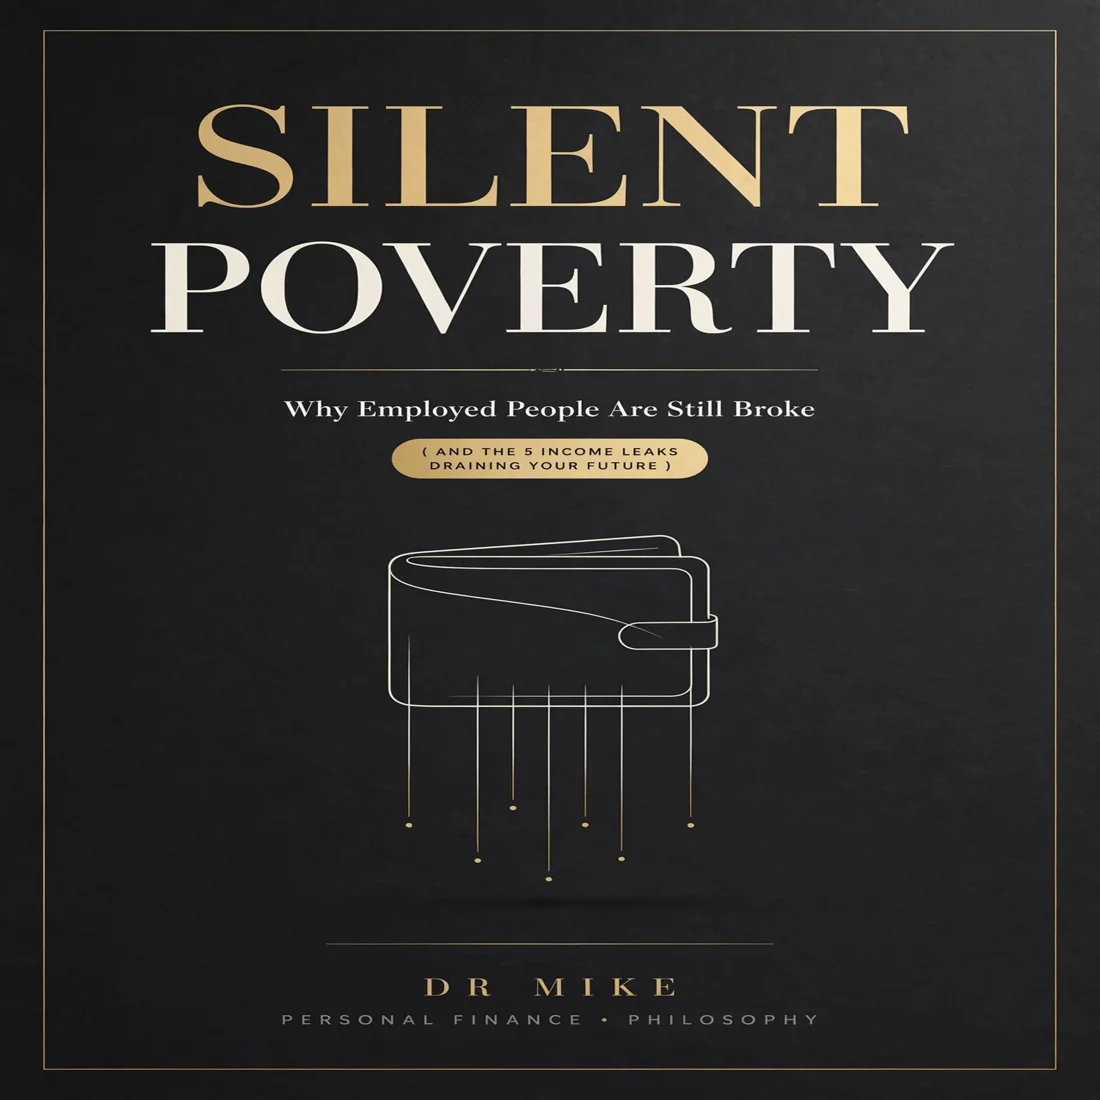
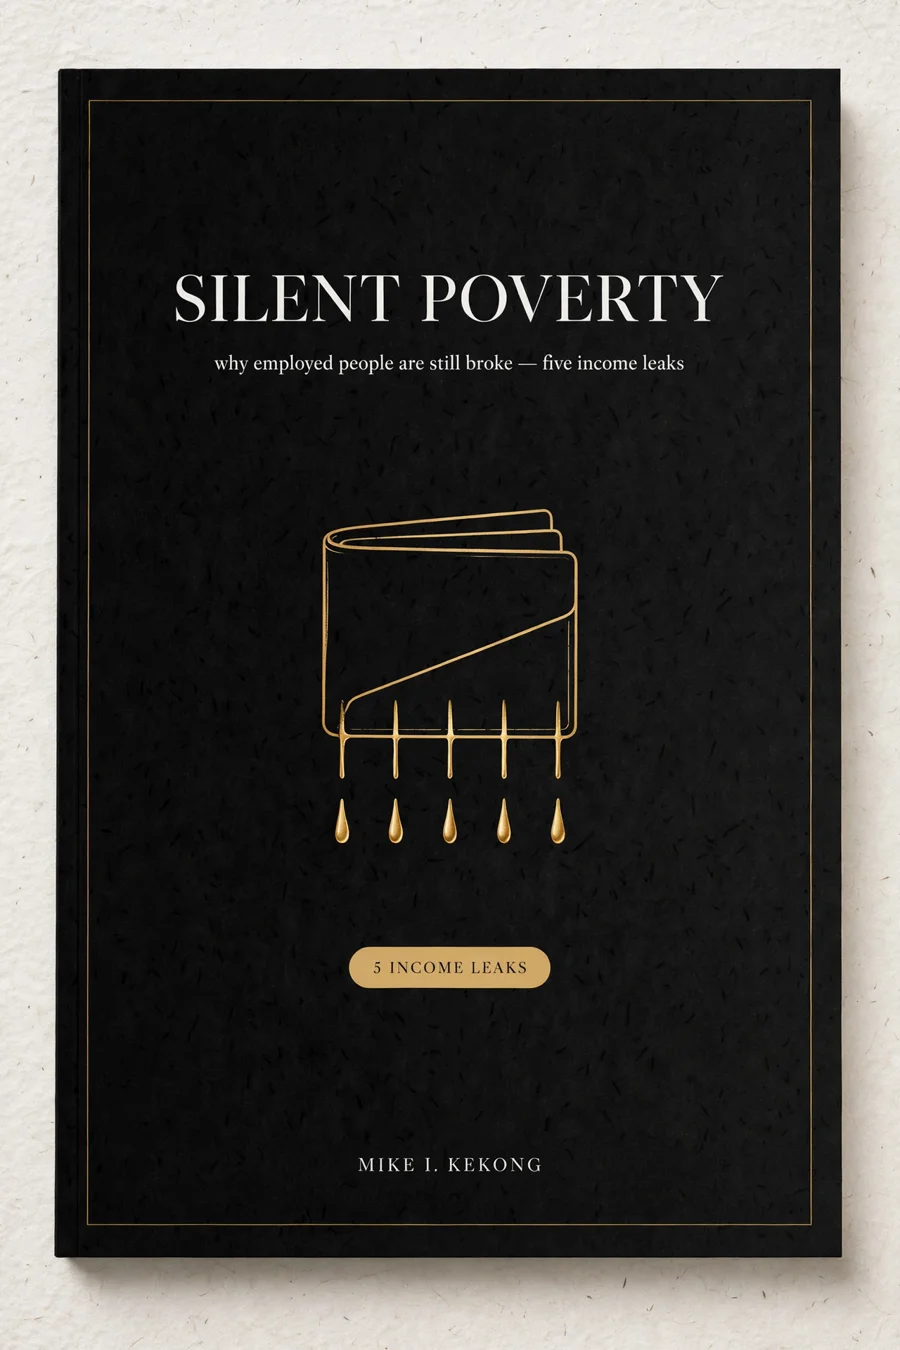
feat(covers, site): premium portrait redesign + aspect fix
- redo all 9 covers in premium web scale: 60% negative space, Instrument Serif + Inter, 1 hue + neutrals, hairline border at 8% inset 10mm, subtle grain and radial orb, muted Linear/Stripe palette
- fix author to MIKE I. KEKONG on all covers per request (was DR MIKE)
- fix aspect ratio: covers now portrait 900x1350 (2:3), site from aspect-square to aspect-[2/3] in Plate and book page to remove stretch
- rethink 3 angles per cover before IR draft, portrait 1024x1536 render, muse-image generate, ffmpeg crop to 900/600 webp

diff --git a/src/lib/Plate.svelte b/src/lib/Plate.svelte
@@ -10,14 +10,14 @@
 		<div class="relative overflow-hidden rounded-[2px] border border-plate-3 bg-plate-2">
 			<img
 				src="/covers/{b.i}-s.webp"
-				srcset="/covers/{b.i}-s.webp 750w, /covers/{b.i}.webp 1100w"
+				srcset="/covers/{b.i}-s.webp 600w, /covers/{b.i}.webp 900w"
 				sizes="(min-width: 1280px) 20rem, (min-width: 1024px) 30vw, (min-width: 640px) 45vw, 90vw"
-				alt="cover of {b.t} by Michael Kekong"
-				width="1100"
-				height="1100"
+				alt="cover of {b.t} by Mike I. Kekong"
+				width="900"
+				height="1350"
 				loading="lazy"
 				decoding="async"
-				class="plate-img aspect-square w-full object-cover"
+				class="plate-img aspect-[2/3] w-full object-cover"
 			/>
 			<div class="scan" aria-hidden="true"></div>
 		</div>

diff --git a/src/routes/b/[s]/+page.svelte b/src/routes/b/[s]/+page.svelte
@@ -25,10 +25,10 @@
 			<div class="relative overflow-hidden rounded-[2px] border border-plate-3 bg-plate-2">
 				<img
 					src="/covers/{b.i}.webp"
-					alt="cover of {b.t} by {author.n}"
-					width="1100"
-					height="1100"
-					class="plate-img aspect-square w-full object-cover"
+					alt="cover of {b.t} by Mike I. Kekong"
+					width="900"
+					height="1350"
+					class="plate-img aspect-[2/3] w-full object-cover"
 				/>
 				<div class="scan" aria-hidden="true"></div>
 			</div>
